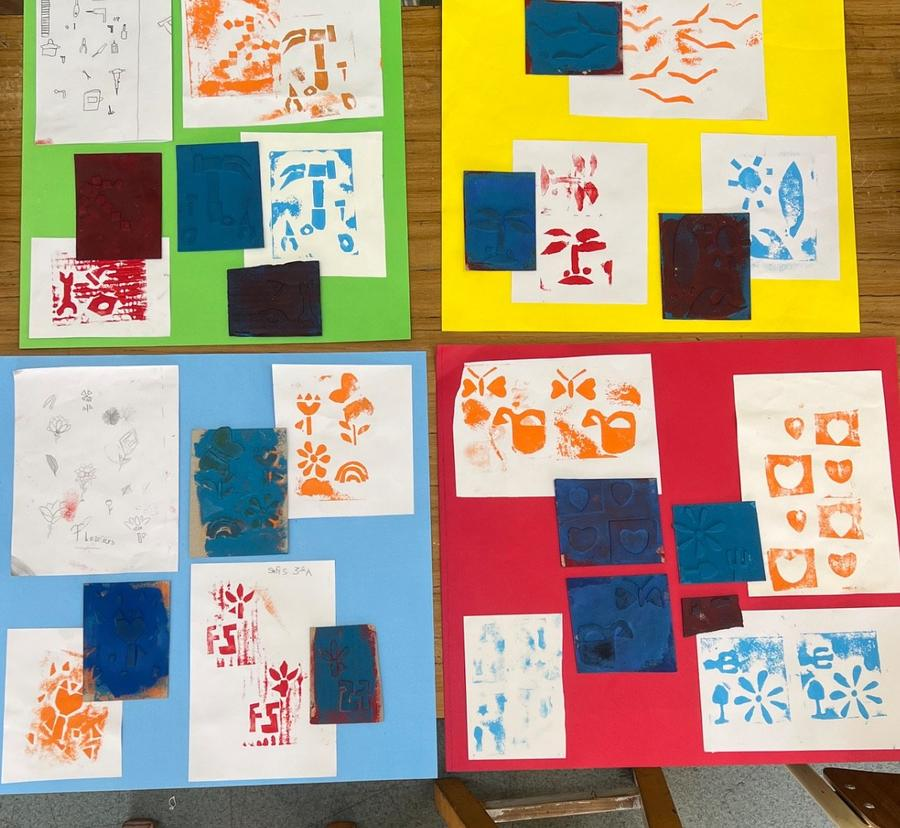
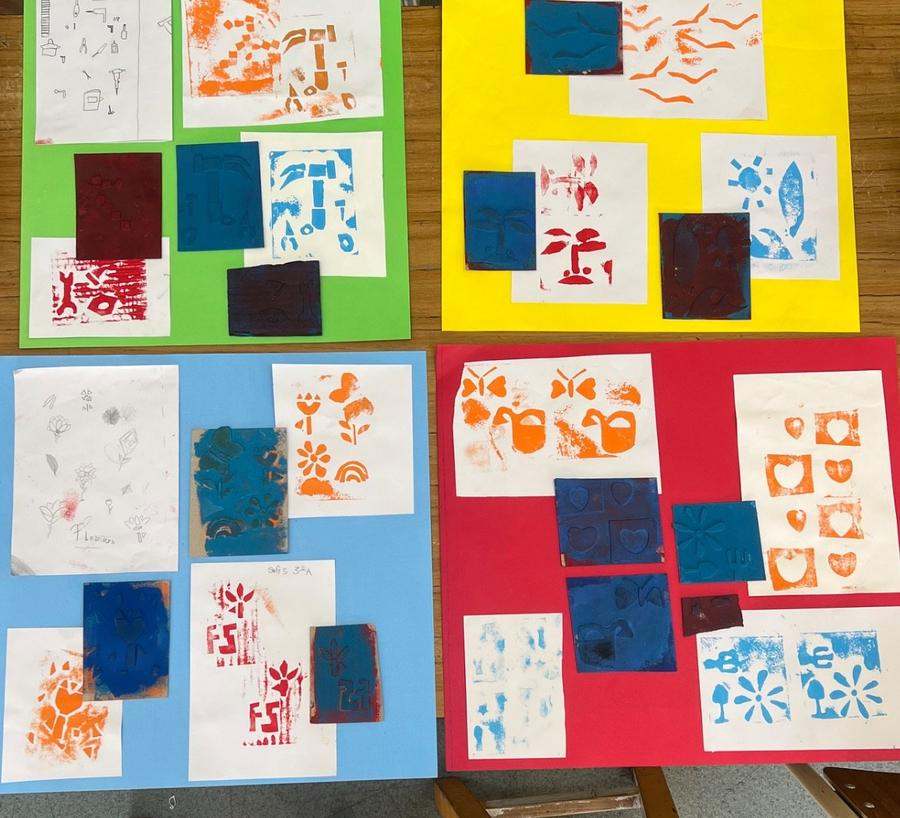
Fotos sin zoom: columnas que se acomodan al recorte (docente-fotos.json + fotos.py); en columnitas, dos fotos seguidas van lado a lado y todas con bordes redondeados
Claude-Session: https://claude.ai/code/session_01US72wML87Fmsaq7rWpzdQo

diff --git a/cuerpo.html b/cuerpo.html
@@ -106,20 +106,15 @@ button:focus-visible{outline:none}
 .texto .dato{margin:0 0 20px;font-size:12.5px;letter-spacing:.12em;text-transform:uppercase;color:var(--c)}
 .texto .sangria{padding-left:1.8em}
 .texto .cursiva{font-style:italic}
-.texto img{display:block;max-width:100%;height:auto;margin:20px auto}
+.texto img{display:block;max-width:100%;max-height:72vh;width:auto;height:auto;margin:20px auto;border-radius:10px}
 .texto .credito{font-size:14px}
-.fotos{display:grid;gap:8px;margin:22px 0 0}
-.texto .fotos img{width:100%;height:100%;margin:0;object-fit:cover;border-radius:10px}
-.fotos.lado{grid-template-columns:2fr 1fr;grid-template-rows:1fr 1fr;aspect-ratio:9/8}
-.fotos.lado img:first-child{grid-row:span 2}
-.fotos.tres{grid-template-columns:repeat(3,1fr);gap:12px;padding:0 4px}
-.fotos.tres img{aspect-ratio:3/4}
-.fotos.dos-una{grid-template-columns:1fr 1fr}
-.fotos.dos-una img{aspect-ratio:3/4}
-.fotos.dos-una img:last-child{grid-column:span 2;aspect-ratio:4/3}
-.fotos.tira{grid-template-columns:1fr 1fr;gap:0;align-items:center}
-.texto .fotos.tira img{border-radius:0;height:auto;object-fit:contain}
-.fotos.par{grid-template-columns:3fr 2fr;aspect-ratio:9/5}
+.fotos{display:flex;flex-direction:column;gap:8px;margin:22px 0}
+.ff{display:flex;gap:8px;align-items:flex-start}
+.ff.estira{align-items:stretch}
+.fc{display:flex;flex-direction:column;gap:8px;min-width:0}
+.texto .fotos img{width:100%;min-width:0;max-height:none;height:auto;margin:0;object-fit:cover}
+.fotos.recto,.fotos.recto .ff,.fotos.recto .fc{gap:0}
+.texto .fotos.recto img{border-radius:0}
 .texto .ficha{margin:14px 0 0;font-size:15.5px}
 .texto .ficha b{display:block;font-size:12.5px;letter-spacing:.12em;text-transform:uppercase;color:var(--c)}
 .texto p{margin:0}

diff --git a/index.html b/index.html
@@ -117,20 +117,15 @@ button:focus-visible{outline:none}
 .texto .dato{margin:0 0 20px;font-size:12.5px;letter-spacing:.12em;text-transform:uppercase;color:var(--c)}
 .texto .sangria{padding-left:1.8em}
 .texto .cursiva{font-style:italic}
-.texto img{display:block;max-width:100%;height:auto;margin:20px auto}
+.texto img{display:block;max-width:100%;max-height:72vh;width:auto;height:auto;margin:20px auto;border-radius:10px}
 .texto .credito{font-size:14px}
-.fotos{display:grid;gap:8px;margin:22px 0 0}
-.texto .fotos img{width:100%;height:100%;margin:0;object-fit:cover;border-radius:10px}
-.fotos.lado{grid-template-columns:2fr 1fr;grid-template-rows:1fr 1fr;aspect-ratio:9/8}
-.fotos.lado img:first-child{grid-row:span 2}
-.fotos.tres{grid-template-columns:repeat(3,1fr);gap:12px;padding:0 4px}
-.fotos.tres img{aspect-ratio:3/4}
-.fotos.dos-una{grid-template-columns:1fr 1fr}
-.fotos.dos-una img{aspect-ratio:3/4}
-.fotos.dos-una img:last-child{grid-column:span 2;aspect-ratio:4/3}
-.fotos.tira{grid-template-columns:1fr 1fr;gap:0;align-items:center}
-.texto .fotos.tira img{border-radius:0;height:auto;object-fit:contain}
-.fotos.par{grid-template-columns:3fr 2fr;aspect-ratio:9/5}
+.fotos{display:flex;flex-direction:column;gap:8px;margin:22px 0}
+.ff{display:flex;gap:8px;align-items:flex-start}
+.ff.estira{align-items:stretch}
+.fc{display:flex;flex-direction:column;gap:8px;min-width:0}
+.texto .fotos img{width:100%;min-width:0;max-height:none;height:auto;margin:0;object-fit:cover}
+.fotos.recto,.fotos.recto .ff,.fotos.recto .fc{gap:0}
+.texto .fotos.recto img{border-radius:0}
 .texto .ficha{margin:14px 0 0;font-size:15.5px}
 .texto .ficha b{display:block;font-size:12.5px;letter-spacing:.12em;text-transform:uppercase;color:var(--c)}
 .texto p{margin:0}

diff --git a/fotos.py b/fotos.py
@@ -1,0 +1,34 @@
+# Arma las fotos de la línea docente: recorta según docente-fotos.json (lo que sale de la mesa de fotos),
+# guarda las versiones web en img/docente/ y reescribe la parte de fotos de docente.json.
+# c = [izquierda, arriba, derecha, abajo], la fracción que se corta de cada lado. Los originales no se tocan.
+import json,os,re
+from PIL import Image
+CFG=json.load(open('docente-fotos.json'))['proyectos']
+D=json.load(open('docente.json'))
+alts=json.load(open('archivo/media/docente/alts.json')) if os.path.exists('archivo/media/docente/alts.json') else {}
+for it in D:
+    for m in re.finditer(r'<img src="img/docente/([^"]+)"[^>]*alt="([^"]*)">',it['html']): alts.setdefault(m.group(1),m.group(2))
+json.dump(alts,open('archivo/media/docente/alts.json','w'),ensure_ascii=False,indent=1)
+for f in os.listdir('img/docente'): os.remove('img/docente/'+f)
+def img(p,estilo):
+    im=Image.open('archivo/media/docente/'+p['f']).convert('RGB'); l,t,r,b=p.get('c',[0,0,0,0]); w,h=im.size
+    im=im.crop((round(w*l),round(h*t),round(w*(1-r)),round(h*(1-b)))); im.thumbnail((900,900),Image.LANCZOS)
+    im.save('img/docente/'+p['f'],quality=74,optimize=True,progressive=True)
+    p['_a']=im.width/im.height; p['_w'],p['_h']=im.size
+    return lambda est:f'<img src="img/docente/{p["f"]}" width="{p["_w"]}" height="{p["_h"]}" decoding="async" alt="{alts.get(p["f"],"")}"'+(f' style="{est}"' if est else '')+'>'
+def arma(disp,ps):
+    g=[img(p,None) for p in ps]; a=[p['_a'] for p in ps]; n=len(ps)
+    fila=lambda idx:'<div class="ff">'+''.join(g[i](f'flex:{a[i]:.4f} 1 0;aspect-ratio:{a[i]:.4f}') for i in idx)+'</div>' if len(idx)>1 else g[idx[0]]('')
+    if disp=='columna' or n==1: return ''.join(x('') for x in g)
+    if disp=='lado' and n>2:
+        ac=1/sum(1/x for x in a[1:])
+        return f'<div class="ff estira">'+g[0](f'flex:{a[0]:.4f} 1 0')+f'<div class="fc" style="flex:{ac:.4f} 1 0">'+''.join(g[i](f'aspect-ratio:{a[i]:.4f}') for i in range(1,n))+'</div></div>'
+    if disp=='dos-una' and n>2: return fila([0,1])+''.join(g[i]('') for i in range(2,n))
+    if disp=='una-dos' and n>2: return g[0]('')+fila(list(range(1,n)))
+    return fila(list(range(n)))
+for it in D:
+    c=CFG[it['id']]; ps=[p for p in c['fotos'] if p.get('usar',True)]
+    texto=re.split(r'<div class="fotos|<img',it['html'])[0]
+    it['html']=texto+'<div class="fotos'+('' if c.get('redondo',True) else ' recto')+'">'+arma(c['disp'],ps)+'</div>'
+json.dump(D,open('docente.json','w'),ensure_ascii=False,separators=(',',':'))
+print('fotos:',len(os.listdir('img/docente')),'peso:',sum(os.path.getsize('img/docente/'+f) for f in os.listdir('img/docente'))//1024,'KB')
